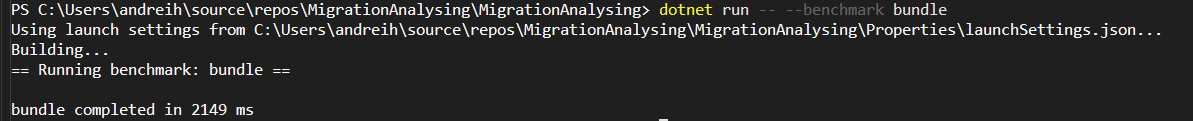
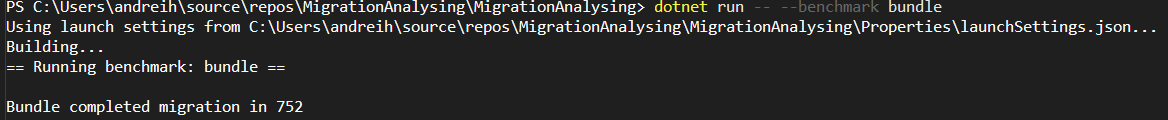
Fix db migration, remove dropdb at every run

diff --git a/MigrationAnalysing/Benchmark/BenchmarkRunner.cs b/MigrationAnalysing/Benchmark/BenchmarkRunner.cs
@@ -1,6 +1,4 @@
-using System.Data;
-using System.Diagnostics;
-using Microsoft.Data.SqlClient;
+using System.Diagnostics;
 using Microsoft.EntityFrameworkCore;
 using MigrationAnalysing.DataAccess;
 
@@ -17,12 +15,11 @@ public static class BenchmarkRunner
 
         Console.WriteLine($"== Running benchmark: {mode} ==");
 
-        long elapsed = 0;
+        long elapsed;
 
         switch (mode.ToLower())
         {
-            case "migrate":
-                await DropDatabase(connection);
+            case "onstartup":
                 elapsed = await MeasureAsync(async () =>
                 {
                     using var ctx = new AppDbContext(
@@ -32,32 +29,16 @@ public static class BenchmarkRunner
                     await ctx.Database.MigrateAsync();
                 });
                 Log("MigrateOnStartup", migrationCount, elapsed, resultPath);
+                PrintResult("MigrateOnStartup", elapsed);
                 break;
 
-            case "sql":
-                await DropDatabase(connection);
-                var scriptPath = Path.Combine("artifacts", $"script_{migrationCount}.sql");
-                if (!File.Exists(scriptPath))
-                    throw new FileNotFoundException(scriptPath);
-                elapsed = await MeasureAsync(async () =>
-                {
-                    string sql = await File.ReadAllTextAsync(scriptPath);
-                    using var conn = new SqlConnection(connection);
-                    await conn.OpenAsync();
-                    using var cmd = conn.CreateCommand();
-                    cmd.CommandType = CommandType.Text;
-                    cmd.CommandText = sql;
-                    cmd.CommandTimeout = 0;
-                    await cmd.ExecuteNonQueryAsync();
-                });
-                Log("CachedSQL", migrationCount, elapsed, resultPath);
-                break;
 
             case "bundle":
-                await DropDatabase(connection);
                 var bundlePath = Path.Combine("artifacts", $"bundle_{migrationCount}.exe");
+                
                 if (!File.Exists(bundlePath))
                     throw new FileNotFoundException(bundlePath);
+
                 elapsed = await MeasureAsync(async () =>
                 {
                     var psi = new ProcessStartInfo
@@ -76,6 +57,7 @@ public static class BenchmarkRunner
                     Console.WriteLine(error);
                 });
                 Log("Bundle", migrationCount, elapsed, resultPath);
+                PrintResult("Bundle", elapsed);
                 break;
 
 
@@ -83,8 +65,6 @@ public static class BenchmarkRunner
                 Console.WriteLine("Invalid benchmark mode. Use migrate | sql | bundle");
                 return;
         }
-
-        Console.WriteLine($"{mode} completed in {elapsed} ms");
     }
 
     private static void Log(string method, int migrations, long ms, string path)
@@ -100,21 +80,8 @@ public static class BenchmarkRunner
         return sw.ElapsedMilliseconds;
     }
 
-    private static async Task DropDatabase(string connection)
+    private static void PrintResult(string method, long ms)
     {
-        var builder = new SqlConnectionStringBuilder(connection);
-        var dbName = builder.InitialCatalog;
-        builder.InitialCatalog = "master";
-
-        using var conn = new SqlConnection(builder.ToString());
-        await conn.OpenAsync();
-        using var cmd = conn.CreateCommand();
-        cmd.CommandText = $@"
-IF DB_ID('{dbName}') IS NOT NULL
-BEGIN
-    ALTER DATABASE [{dbName}] SET SINGLE_USER WITH ROLLBACK IMMEDIATE;
-    DROP DATABASE [{dbName}];
-END";
-        await cmd.ExecuteNonQueryAsync();
+        Console.WriteLine($"{method} completed migration in {ms}");
     }
 }
